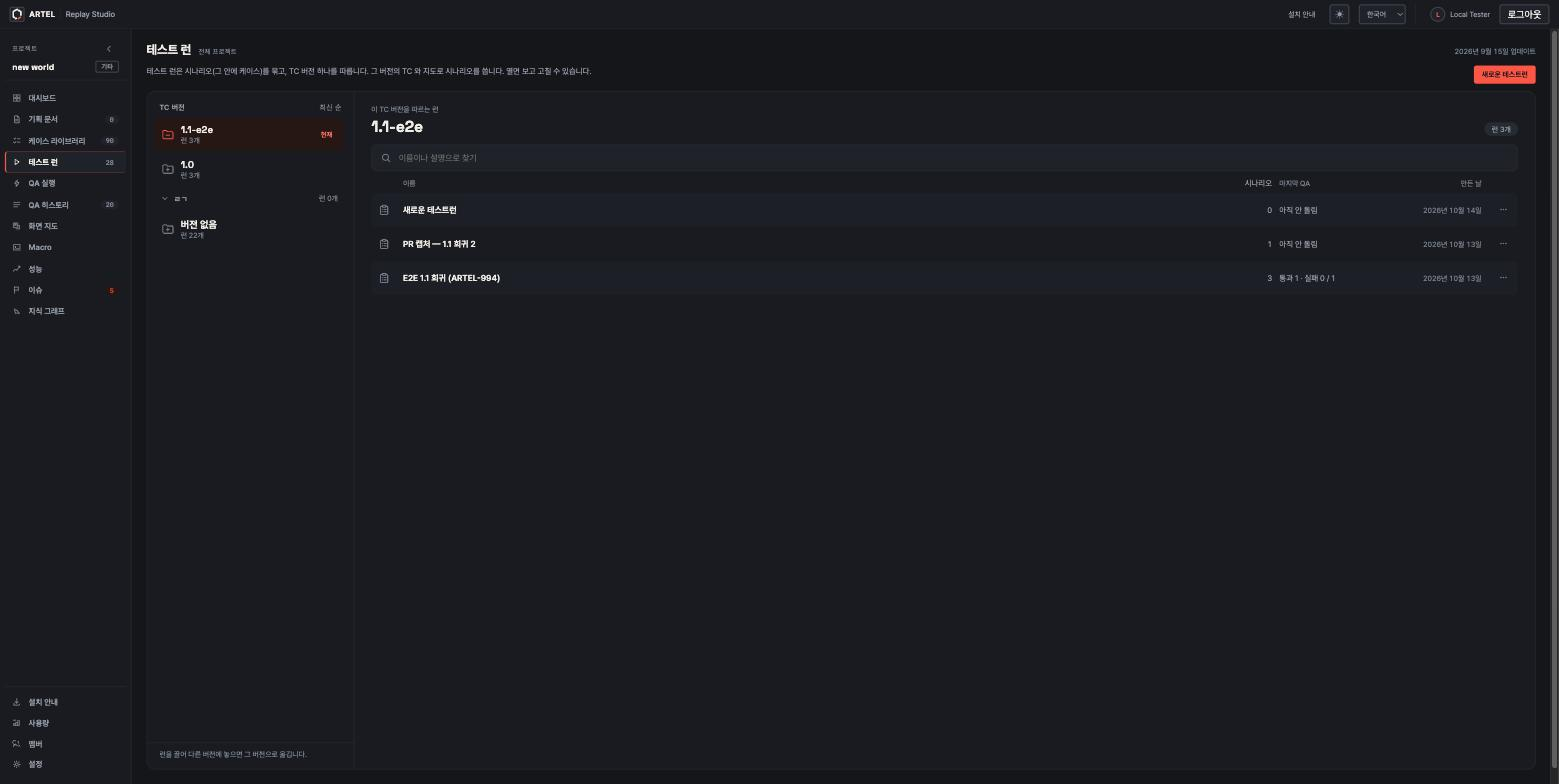
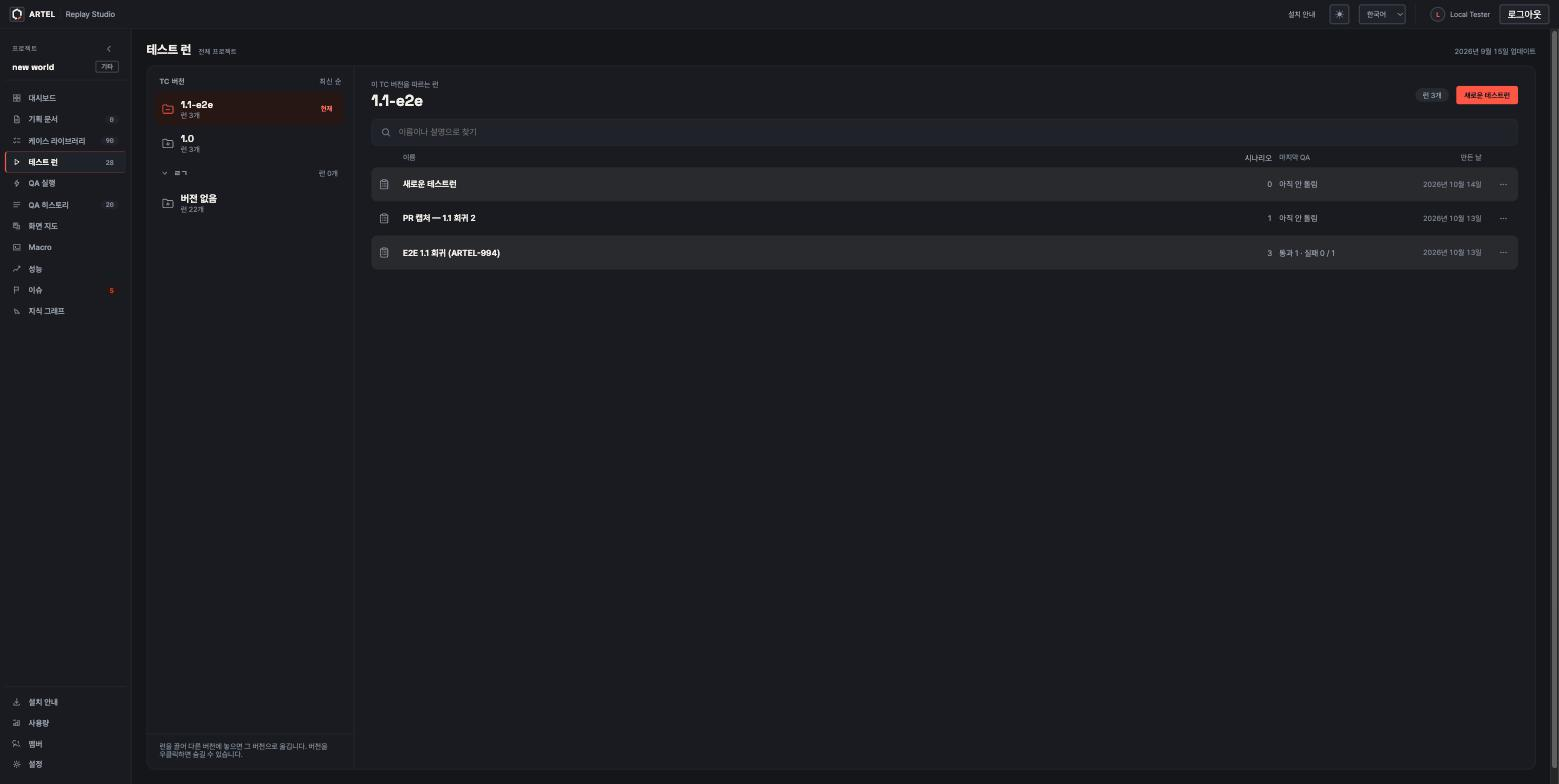
feat(test-runs): 표를 위로 올리고 줄무늬를 또렷하게, 버전 우클릭으로 숨기기
- 설명 줄과 함께 버튼 줄도 없애고 "새로운 테스트런" 을 런 목록 머리(런 수 옆)로 옮겼다. 틀이 그만큼 위로
  올라가 표가 길어진다.
- 줄무늬를 바탕색 대신 글자색을 7% 섞어 낸다. 다크에서 줄 사이 차이가 거의 없어 갈리지 않았다.
- 버전 칸을 우클릭하면 숨기기 · 다시 보이기. 케이스 라이브러리와 같은 설정이라 거기서도 숨는다.

Jira: ARTEL-1049

diff --git a/src/testRuns/RunListPanel.tsx b/src/testRuns/RunListPanel.tsx
@@ -8,6 +8,7 @@ import { ContextMenu, type ContextMenuItem } from '../testCases/ContextMenu'
 import {
   arrangeVersions,
   hiddenVersions,
+  setVersionHidden,
   versionName,
   type TestCaseVersionSummary,
 } from '../testCases/testCaseVersions'
@@ -70,6 +71,8 @@ export function RunListPanel({
   const [creating, setCreating] = useState(false)
   const [moving, setMoving] = useState<TestRun | null>(null)
   const [menu, setMenu] = useState<{ run: TestRun; x: number; y: number } | null>(null)
+  // 버전 칸의 우클릭 메뉴. 숨기기는 케이스 라이브러리와 같은 설정이라 거기서도 숨는다.
+  const [versionMenu, setVersionMenu] = useState<{ version: TestCaseVersionSummary; x: number; y: number } | null>(null)
   const [dropTarget, setDropTarget] = useState<string | null>(null)
   const [notice, setNotice] = useState<string | null>(null)
   const [query, setQuery] = useState('')
@@ -178,6 +181,17 @@ export function RunListPanel({
     ]
   }
 
+  async function toggleHidden(version: TestCaseVersionSummary) {
+    setFailure(null)
+    try {
+      await setVersionHidden(projectId, version.gameBuildId, !version.hidden)
+      versionList.refresh()
+      if (!version.hidden) setShowHidden(true)
+    } catch {
+      setFailure(r.hideFailed)
+    }
+  }
+
   function lastQaText(lastQa: RunLastQa | null): string {
     if (lastQa === null) return r.lastQa.never
     if (lastQa.status === 'RUNNING' || lastQa.status === 'STARTING') return r.lastQa.running
@@ -185,7 +199,7 @@ export function RunListPanel({
     return lastQa.status === 'CANCELLED' ? r.lastQa.cancelled(result) : result
   }
 
-  const node = (key: string, label: string, options: { latest?: boolean; hidden?: boolean } = {}) => {
+  const node = (key: string, label: string, options: { latest?: boolean; hidden?: boolean; version?: TestCaseVersionSummary } = {}) => {
     const on = key === bucket
     const count = counts.get(key) ?? 0
     return (
@@ -196,6 +210,12 @@ export function RunListPanel({
             'trl-node' + (on ? ' is-current' : '') + (options.hidden === true ? ' is-hidden' : '') + (dropTarget === key ? ' is-drop' : '')
           }
           onClick={() => selectBucket(key)}
+          onContextMenu={(event) => {
+            const version = options.version
+            if (version === undefined) return
+            event.preventDefault()
+            setVersionMenu({ version, x: event.clientX, y: event.clientY })
+          }}
           onDragLeave={() => setDropTarget((current) => (current === key ? null : current))}
           onDragOver={(event) => {
             if (!event.dataTransfer.types.includes(RUN_DRAG)) return
@@ -225,20 +245,15 @@ export function RunListPanel({
   }
 
   const versionNode = (version: TestCaseVersionSummary) =>
-    node(version.gameBuildId, versionName(version), { latest: version.latest, hidden: version.hidden })
+    node(version.gameBuildId, versionName(version), { latest: version.latest, hidden: version.hidden, version })
 
   const needle = query.trim().toLowerCase()
   const listed = needle === '' ? shown : shown.filter((run) => `${run.name} ${run.description ?? ''}`.toLowerCase().includes(needle))
 
   return (
     <section aria-labelledby="test-runs-title" className="trl-page">
-      <header className="trl-page-head">
-        {/* 위의 작업공간 제목이 이미 "테스트 런" 이다. 같은 말을 두 번 보이지 않고, 낭독기에만 남긴다. */}
-        <h2 className="visually-hidden" id="test-runs-title">{r.title}</h2>
-        <button className="button button--primary button--compact" onClick={() => setCreating(true)} type="button">
-          {r.newButton}
-        </button>
-      </header>
+      {/* 위의 작업공간 제목이 이미 "테스트 런" 이다. 같은 말을 두 번 보이지 않고, 낭독기에만 남긴다. */}
+      <h2 className="visually-hidden" id="test-runs-title">{r.title}</h2>
 
       {notice !== null && (
         <p className="trl-notice">
@@ -327,6 +342,9 @@ export function RunListPanel({
                 <h3>{bucketLabel}</h3>
               </div>
               <span className="trl-chip">{r.runCount(shown.length)}</span>
+              <button className="button button--primary button--compact" onClick={() => setCreating(true)} type="button">
+                {r.newButton}
+              </button>
             </div>
             {shown.length > 0 && (
               <>
@@ -411,6 +429,21 @@ export function RunListPanel({
             </div>
           </main>
         </div>
+      )}
+
+      {versionMenu !== null && (
+        <ContextMenu
+          items={[
+            {
+              label: versionMenu.version.hidden ? v.menu.show : v.menu.hide,
+              onSelect: () => void toggleHidden(versionMenu.version),
+            },
+          ]}
+          label={r.versionMenuLabel}
+          onClose={() => setVersionMenu(null)}
+          x={versionMenu.x}
+          y={versionMenu.y}
+        />
       )}
 
       {menu !== null && (

diff --git a/src/App.css b/src/App.css
@@ -10719,8 +10719,6 @@ col.tct-c-res{ width:10% } col.tct-c-exp{ width:24% } col.tct-c-added{ width:10%
 .section-content:has(.trl-page){ width:100%; }
 .workspace-body:has(.trl-page) .section-header{ width:100%; }
 .trl-page{ display:flex; flex-direction:column; gap:var(--space-3); min-width:0; }
-.trl-page-head{ display:flex; align-items:center; justify-content:flex-end; gap:var(--space-4); }
-.trl-page-head h2{ margin:0; font-size:18px; }
 .trl{ display:flex; min-height:420px; height:calc(100dvh - var(--trl-top, 180px) - var(--space-6)); border:1px solid var(--color-border-subtle); border-radius:14px; background:var(--color-bg-surface); overflow:hidden; }
 .trl-muted{ font-size:12px; color:var(--color-text-muted); font-weight:400; }
 .trl-scroll{ position:relative; flex:1; min-height:0; overflow-y:auto; }
@@ -10745,7 +10743,7 @@ col.tct-c-res{ width:10% } col.tct-c-exp{ width:24% } col.tct-c-added{ width:10%
 .trl-group-name{ flex:1; min-width:0; overflow:hidden; text-overflow:ellipsis; white-space:nowrap; }
 .trl-group--hidden{ margin:8px 16px 0 12px; width:auto; font-weight:400; }
 .trl-main{ flex:1; min-width:0; display:flex; flex-direction:column; min-height:0; }
-.trl-main-head{ flex:none; display:flex; align-items:flex-end; gap:16px; padding:22px 28px 14px; }
+.trl-main-head{ flex:none; display:flex; align-items:center; gap:12px; padding:22px 28px 14px; }
 .trl-main-title{ flex:1; min-width:0; display:flex; flex-direction:column; gap:4px; }
 .trl-main-title h3{ margin:0; font-family:var(--font-display); font-size:26px; line-height:32px; font-weight:700; white-space:nowrap; overflow:hidden; text-overflow:ellipsis; }
 .trl-chip{ flex:none; padding:4px 12px; border-radius:999px; background:var(--color-bg-hover); color:var(--color-text-secondary); font-size:12px; white-space:nowrap; }
@@ -10755,8 +10753,9 @@ col.tct-c-res{ width:10% } col.tct-c-exp{ width:24% } col.tct-c-added{ width:10%
 .trl-cols{ flex:none; padding:0 40px 8px; font-size:12px; color:var(--color-text-muted); }
 .trl-list{ list-style:none; margin:0; padding:0 28px 16px; }
 .trl-row{ min-height:56px; padding:6px 12px; border-radius:10px; cursor:pointer; color:var(--color-text-primary); }
-.trl-list > li:nth-child(odd) .trl-row{ background:color-mix(in srgb, var(--color-bg-raised) 55%, transparent); }
-.trl-row:hover, .trl-list > li:nth-child(odd) .trl-row:hover{ background:var(--color-bg-hover); }
+/* 글자색을 옅게 섞어 줄무늬를 낸다 — 다크에서는 밝은 회색, 라이트에서는 어두운 회색이 되어 두 테마 모두에서 갈린다. */
+.trl-list > li:nth-child(odd) .trl-row{ background:color-mix(in srgb, var(--color-text-primary) 7%, transparent); }
+.trl-row:hover, .trl-list > li:nth-child(odd) .trl-row:hover{ background:color-mix(in srgb, var(--color-text-primary) 12%, transparent); }
 .trl-row[draggable="true"]:active{ cursor:grabbing; }
 .trl-row-icon{ flex:none; color:var(--color-text-secondary); }
 .trl-row-title{ min-width:0; display:flex; flex-direction:column; }

diff --git a/src/i18n/messages/scenarios.ts b/src/i18n/messages/scenarios.ts
@@ -349,12 +349,14 @@ export const scenariosEn = {
     newButton: 'New run',
     versionsTitle: 'Case versions',
     newestFirst: 'Newest first',
+    versionMenuLabel: 'Version actions',
+    hideFailed: 'The version could not be hidden or shown. Please try again.',
     runCount: (count: number) => `${count} run${count === 1 ? '' : 's'}`,
     runsOfKicker: 'Runs following this case version',
     search: 'Search runs',
     searchPlaceholder: 'Search by name or description',
     noMatch: (query: string) => `No run matches “${query}”.`,
-    dragHint: 'Drag a run onto a version to move it there.',
+    dragHint: 'Drag a run onto a version to move it there. Right-click a version to hide it.',
     runsOf: (version: string, count: number) => `${version} · ${count} run${count === 1 ? '' : 's'}`,
     emptyVersion: 'No run follows this version yet.',
     dismiss: 'Dismiss',
@@ -871,12 +873,14 @@ export const scenariosKo: Localized<typeof scenariosEn> = {
     newButton: '새로운 테스트런',
     versionsTitle: 'TC 버전',
     newestFirst: '최신 순',
+    versionMenuLabel: '버전 메뉴',
+    hideFailed: '버전을 숨기거나 다시 보이지 못했습니다. 다시 시도해 주세요.',
     runCount: (count: number) => `런 ${count}개`,
     runsOfKicker: '이 TC 버전을 따르는 런',
     search: '런 검색',
     searchPlaceholder: '이름이나 설명으로 찾기',
     noMatch: (query: string) => `“${query}” 에 맞는 런이 없습니다.`,
-    dragHint: '런을 끌어 다른 버전에 놓으면 그 버전으로 옮깁니다.',
+    dragHint: '런을 끌어 다른 버전에 놓으면 그 버전으로 옮깁니다. 버전을 우클릭하면 숨길 수 있습니다.',
     runsOf: (version: string, count: number) => `${version} · 런 ${count}개`,
     emptyVersion: '이 버전을 따르는 런이 아직 없습니다.',
     dismiss: '닫기',
